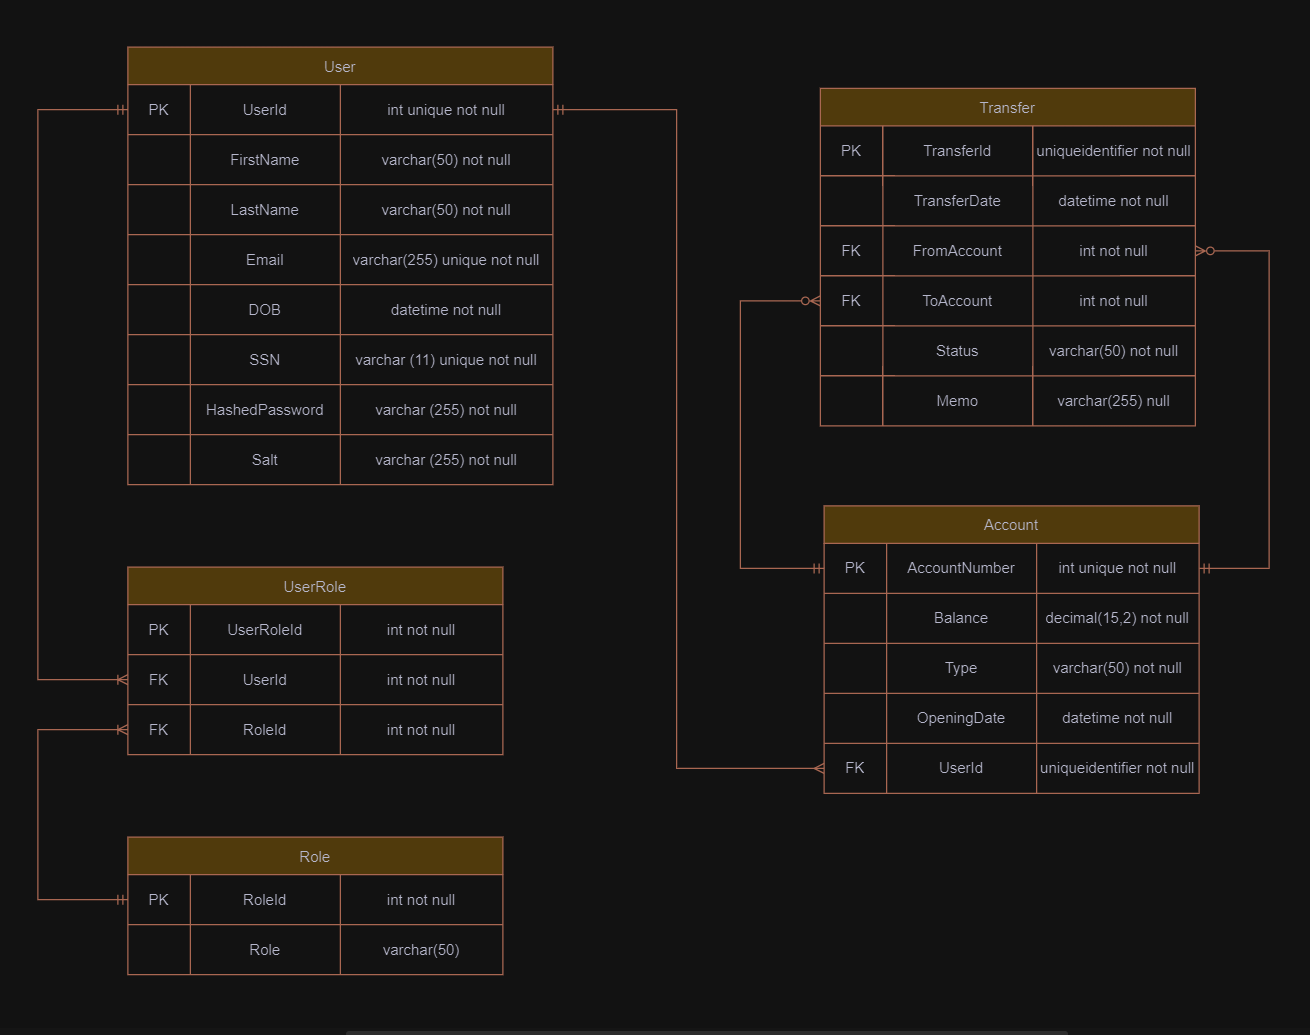
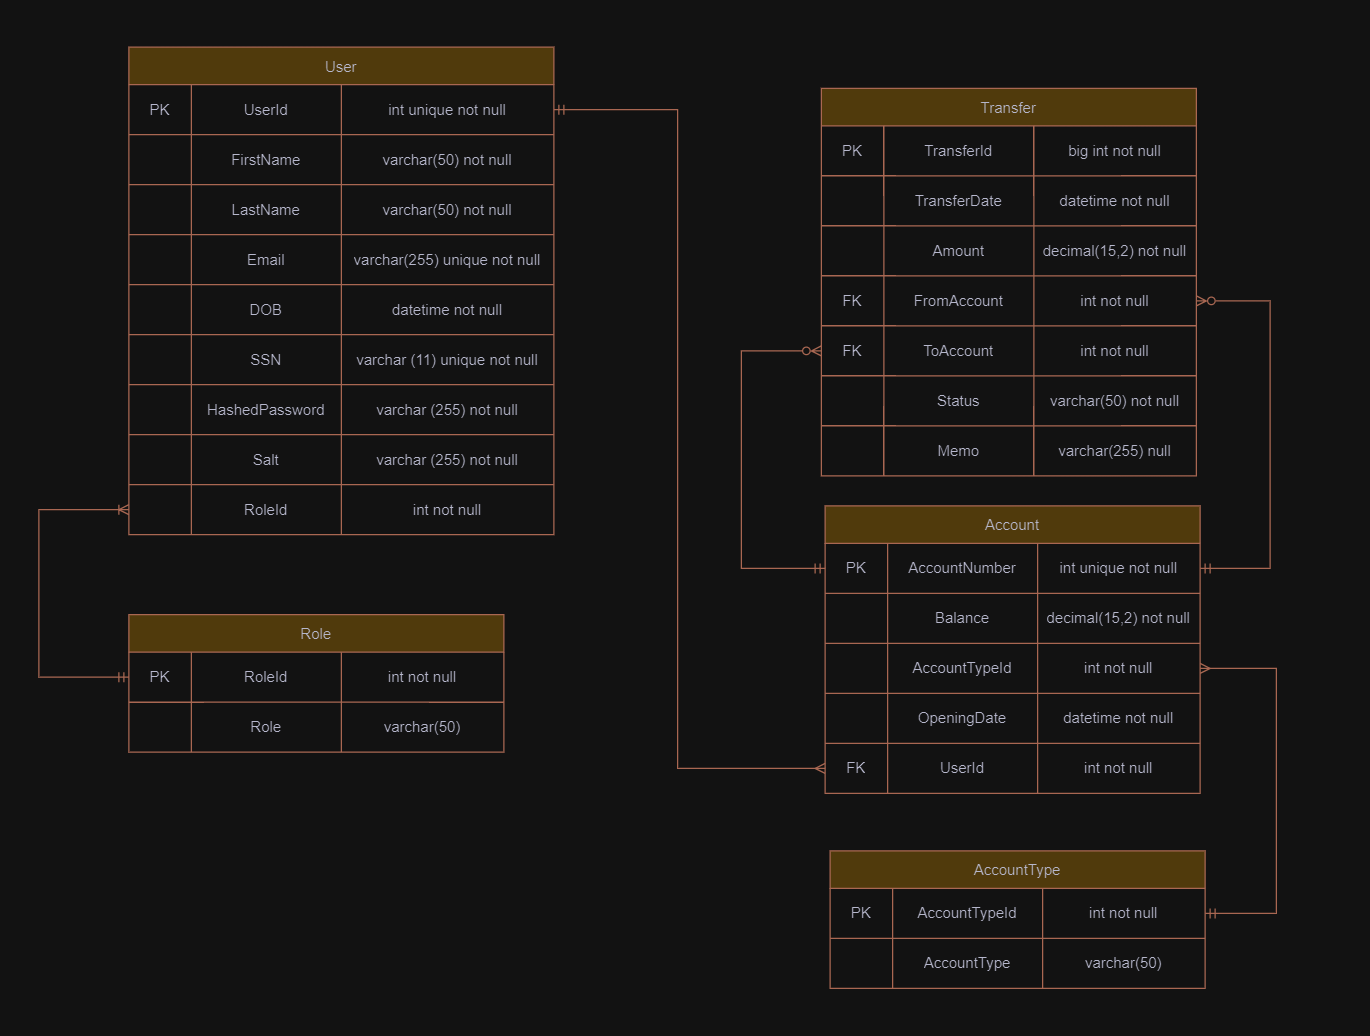
finishing stored procedure calls and dummy data implementation. ERD fixed to reflect database decisions

diff --git a/lib/database.js b/lib/database.js
@@ -1,7 +1,6 @@
 //#region requires
 let mysql = require('mysql2');
 var dbConnectionInfo = require('./connectionInfo');
-var viewModels = require('../lib/viewModels');
 //#endregion
 
 //#region server connection
@@ -18,16 +17,8 @@ serverConnection.connect((error) => {
         throw error;
     }
     else {
-        console.log("database.js: Connected to server")
+        console.log("database.js: Connected to server");
 
-        serverConnection.query("DROP DATABASE IF EXISTS banking_system",
-            (error, result) => {
-                if(error) {
-                    console.log(error.message);
-                    throw error; 
-                }
-                console.log("database.js DROPPED");
-        });
         serverConnection.query("CREATE DATABASE IF NOT EXISTS banking_system",
             (error, result) => {
                 if(error) {
@@ -151,6 +142,7 @@ function createTables() {
     // create transfer table 
     sql = "CREATE TABLE IF NOT EXISTS transfer (\n" +
                         "transfer_id BIGINT NOT NULL AUTO_INCREMENT, \n" +
+                        "amount DECIMAL(15,2) NOT NULL, \n" +
                         "transfer_date DATETIME NOT NULL, \n" +
                         "from_account INT NOT NULL,\n" +
                         "to_account INT NOT NULL,\n" +
@@ -241,6 +233,7 @@ function createStoredProcedures() {
         });  
     // create transfer stored procedure 
     sql = "CREATE PROCEDURE IF NOT EXISTS `create_transfer`(\n" +
+                "IN Amount DECIMAL(15,2), \n" +
                 "IN TransferDate VARCHAR(20), \n" +
                 "IN FromAccount INT, \n" +
                 "IN ToAccount INT, \n" +
@@ -248,9 +241,9 @@ function createStoredProcedures() {
                 "IN Memo VARCHAR(255) \n" +
             ")\n" +
             "BEGIN\n" +
-                "INSERT INTO transfer (transfer_date, from_account, \n" +
+                "INSERT INTO transfer (amount, transfer_date, from_account, \n" +
                 "to_account, status, memo)\n" +
-                "VALUES (TransferDate, FromAccount, ToAccount, Status, Memo);\n" +
+                "VALUES (Amount, TransferDate, FromAccount, ToAccount, Status, Memo);\n" +
             "END;"; 
     serverConnection.query(sql, (error, results, fields) => {
             if(error) {
@@ -347,21 +340,69 @@ function createStoredProcedures() {
             }
             console.log("\tdatabase.js: Stored Procedure change_user_hashed_password_by_user_id created successfully");
         }); 
+    // authenticate user by password 
+    sql = "CREATE PROCEDURE IF NOT EXISTS `authenticate_user_by_user_id_and_hashed_password`(\n" +
+                "IN UserId INT,\n" +
+                "IN HashedPassword VARCHAR(255),\n" +
+                "OUT valid BOOL\n"+ 
+            ")\n" +
+            "BEGIN\n" +
+                "IF(\n" +
+                "(SELECT hashed_password\n"+
+                "FROM user\n"+
+                "WHERE user.user_id = UserId) = HashedPassword)\n" +
+                "THEN\n" +
+                "SET valid = TRUE;\n" +
+                "ELSE\n" +
+                "SET valid = FALSE;\n" +
+                "END IF;\n" +
+                "SELECT valid;\n" +
+            "END;"; 
+    serverConnection.query(sql, (error, results, fields) => {
+            if(error) {
+                console.log(error.message);
+                throw error;
+            }
+            console.log("\tdatabase.js: Stored Procedure authenticate_user_by_user_id_and_hashed_password created successfully");
+        });
+    // get transactions associated with an account 
+    sql = "CREATE PROCEDURE IF NOT EXISTS `get_transfers_by_account_number`(\n" +
+                "IN AccountNumber INT\n" +
+            ")\n" +
+            "BEGIN\n" +
+                "SELECT * FROM transfer WHERE transfer.to_account = AccountNumber OR transfer.from_account = AccountNumber;\n" + 
+            "END;"; 
+    serverConnection.query(sql, (error, results, fields) => {
+            if(error) {
+                console.log(error.message);
+                throw error;
+            }
+            console.log("\tdatabase.js: Stored Procedure authenticate_user_by_user_id_and_hashed_password created successfully");
+        });  
 }
 
 //#endregion
 
 //#region add table data 
 async function addTableData() {
+    if(!await DatabaseHasBeenSeeded()){
+    // get account type 
+    for(let i = 1; i < 3; ++i) {
+        let accountType = await GetAccountTypeById(i); 
+        console.log("\tdatabase.ejs: Account type with account_type_id: " + i + " is " + accountType);
+    }
+    console.log("\nAdding Table Data \n***********************************************");
     // CreateUser
     CreateUser('Bryce', 'Hutchinson', 'brycehutchinson@mail.weber.edu', '1998-10-11', '123-45-6789', '123456789456123456789', 'dc1998bcdb6320d');
+    // Authenticate user
+    let validLoginAttempt = await AuthenticateUserByIdAndHashedPassword(1000000, "123456789456123456789");
+    console.log(validLoginAttempt ? "\tSuccess! User with id: 1000000 and hash: 123456789456123456789 entered valid credentials" : "\tFail! User with id: 1000000 and hash: 123456789456123456789 entered INVALID credentials");
     // Create Accounts 
     CreateAccount(1, 1000000);
     CreateAccount(2, 1000000);
     // Update Account Balances
     UpdateAccountBalanceByAccountNumber(9999.99, 100000);
     UpdateAccountBalanceByAccountNumber(10000.01, 100001);
-    UpdateAccountBalanceByAccountNumber(56.87, 100001);
 
     // Get Salt
     console.log("\tdatabase.js: GetSaltByUserId(1000000) retrieved user with id " + 1000000 + "'s salt: " + await GetSaltByUserId(1000000));
@@ -370,22 +411,64 @@ async function addTableData() {
     console.log(userAccounts);
     // Change User Password 
[1 lines of base64/hex data omitted]
+    // Authenticate again after changing password
+    validLoginAttempt = await AuthenticateUserByIdAndHashedPassword(1000000, "123456789456123456789");
+    console.log(validLoginAttempt ? "\tSuccess! User with id: 1000000 and hash: 123456789456123456789 entered valid credentials" : "\tFail! User with id: 1000000 and hash: 123456789456123456789 entered INVALID credentials");
     // Transfer between accounts 
     TransferBetweenAccounts(100000, 100001, 500.00); 
+    // get role name by id
+    for(let i = 1; i < 4; ++i) {
+        let role = await GetRoleNameById(i);
+        console.log("\tdatabase.ejs: Role with id: " + i + " is " + role);
+    }
+    // get all transfers associated with an account 
+    let transfers = await GetTransfersByAccountNumber(100000);
+    console.log(transfers);
+    }
+    else {
+        console.log("Database has already been seeded. No table data added");
+    }
 }
 //#endregion 
 
 //#region Javascript interface to call stored procedures 
 
+function DatabaseHasBeenSeeded() {
+    let sql = "SELECT COUNT(*) as count FROM user";
+    return new Promise((resolve, reject) => {
+        serverConnection.query(sql, (error, results, fields) => {
+            if(error) {
+                console.log(error.message);
+                reject(error);
+            }
+            resolve(results[0].count);
+        }); 
+    });
+}
+
+function AuthenticateUserByIdAndHashedPassword(userId, hashedPassword) {
+    let sql = "SET @out = FALSE;\n"+ 
+        "CALL authenticate_user_by_user_id_and_hashed_password(" + userId + ", '" + hashedPassword + "', @out);"+ 
+        "SELECT @out;\n"; 
+    return new Promise((resolve, reject) => {
+        serverConnection.query(sql, (error, results, fields) => {
+            if(error) {
+                console.log(error.message);
+                reject(error);
+            }
+            resolve(results[1][0].valid);
+        }); 
+    });
+}
 /**
  * This creates a new account with account_type and user_id 
- * @param {*INT} accountTypeId 
- * @param {*INT} userId 
+ * @param {int} accountTypeId 
+ * @param {int}} userId 
  */
 function CreateAccount(accountTypeId, userId) {
     var todaysDateObject = new Date(); 
     var formattedDateString = todaysDateObject.getFullYear() + "-" + (todaysDateObject.getMonth() + 1) + "-" + todaysDateObject.getDate();
-    sql = "CALL create_account('0.00', " + accountTypeId + ", '" + formattedDateString + "', " + userId + ")";
+    let sql = "CALL create_account('0.00', " + accountTypeId + ", '" + formattedDateString + "', " + userId + ")";
     serverConnection.query(sql, (error, results, fields) => {
         if(error) {
             console.log(error.message);
@@ -521,11 +604,16 @@ function GetRoleNameById(roleId) {
                 console.log(error.message);
                 reject(error);
             }
-            resolve(results);
+            resolve(results[0].role);
         }); 
     });
 }
 
+/**
+ * Returns the name of the account type (e.g., checking, savings, etc.) 
+ * @param {int} accountTypeId 
+ * @returns 
+ */
 function GetAccountTypeById(accountTypeId) {
     let sql = "SELECT account_type FROM account_type WHERE account_type.account_type_id = '" + accountTypeId + "'";
     return new Promise((resolve, reject) => {
@@ -534,7 +622,7 @@ function GetAccountTypeById(accountTypeId) {
                 console.log(error.message);
                 reject(error);
             }
-            resolve(results);
+            resolve(results[0].account_type);
         }); 
     });
 }
@@ -561,7 +649,7 @@ async function TransferBetweenAccounts(fromAccount, toAccount, amount, memo) {
         var formattedDateString = todaysDateObject.getFullYear() + "-" + (todaysDateObject.getMonth() + 1) + "-" +
                                   todaysDateObject.getDate() + " " + todaysDateObject.getHours() + ":" + 
                                   todaysDateObject.getMinutes() + ":" + todaysDateObject.getSeconds();
-        let sql = "CALL create_transfer('" + formattedDateString + "', " + fromAccount + ", " + toAccount + ", " + "'pending', " + memo + ")"; 
+        let sql = "CALL create_transfer(" + amount + ", '" + formattedDateString + "', " + fromAccount + ", " + toAccount + ", " + "'pending', " + memo + ")"; 
         serverConnection.query(sql, (error, results, fields) => {
             if(error) {
                 console.log(error.message);
@@ -575,8 +663,17 @@ async function TransferBetweenAccounts(fromAccount, toAccount, amount, memo) {
     }
 }
 
-function GetTransfersByUserId() {
-
+function GetTransfersByAccountNumber(accountNumber) {
+    let sql = "CALL get_transfers_by_account_number(" + accountNumber + ")";
+    return new Promise((resolve, reject) => {
+        serverConnection.query(sql, (error, results, fields) => {
+            if(error) {
+                console.log(error.message);
+                reject(error);
+            }
+            resolve(results);
+        }); 
+    });
 }
 
 /**
